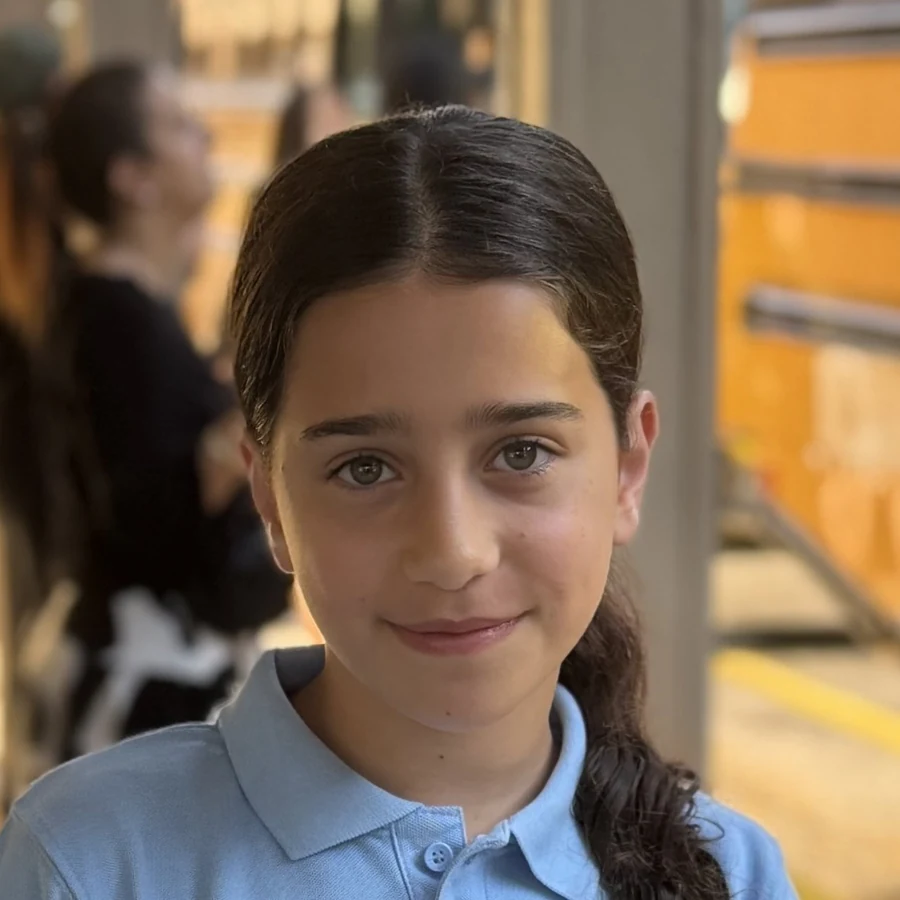
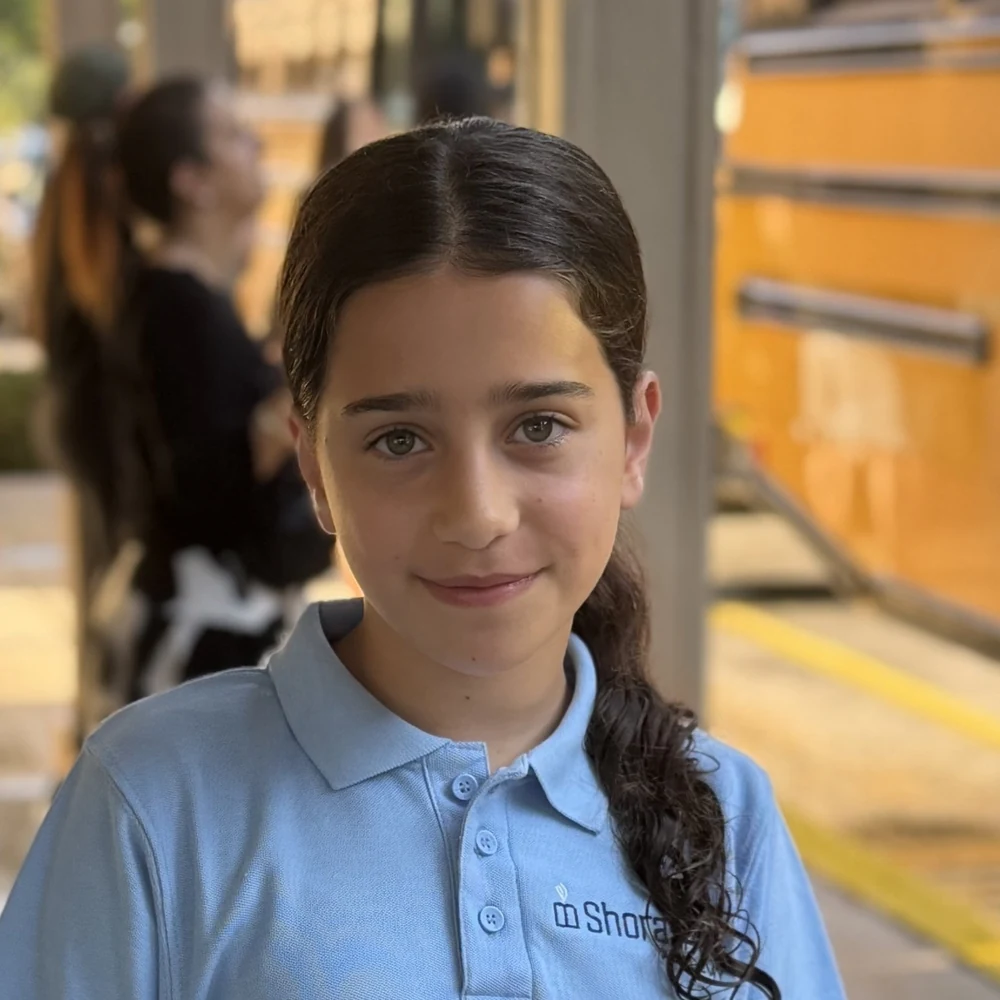
Add files via upload

diff --git a/app/our-story/page.tsx b/app/our-story/page.tsx
@@ -37,11 +37,11 @@ export default function OurStory() {
         <Sparkle className="twinkle absolute left-[10%] top-16 h-7 w-7 text-gold" />
         <Heart className="float absolute right-[10%] top-28 h-9 w-9 text-rose/60" />
         <Reveal className="mx-auto max-w-3xl px-4">
-          <div className="relative mx-auto h-56 w-56 sm:h-64 sm:w-64">
-            <div className="spin-slow absolute inset-[-10px] rounded-full border-[3px] border-dashed border-gold/80" aria-hidden="true" />
-            <Image src="/images/owner.webp" alt="The owner of Café Palace smiling" width={450} height={450} priority className="h-full w-full rounded-full object-cover shadow-pop ring-[6px] ring-white" />
-            <Crown className="absolute -top-9 left-1/2 h-12 w-16 -translate-x-1/2 -rotate-6 drop-shadow-md" />
-            <Heart className="float absolute -right-3 bottom-4 h-10 w-10 text-rose" />
+          <div className="relative mx-auto h-72 w-72 sm:h-96 sm:w-96">
+            <div className="absolute inset-[-12px] rotate-3 rounded-[3rem] border-[3px] border-dashed border-gold/80" aria-hidden="true" />
+            <Image src="/images/owner.webp" alt="The owner of Café Palace smiling" width={600} height={600} priority sizes="(min-width: 640px) 384px, 288px" className="h-full w-full rounded-[2.5rem] object-cover shadow-pop ring-[6px] ring-white" />
+            <Crown className="absolute -top-10 left-1/2 h-14 w-20 -translate-x-1/2 -rotate-6 drop-shadow-md" />
+            <Heart className="float absolute -left-4 bottom-6 h-12 w-12 text-rose" />
           </div>
           <p className="mt-6 font-display text-3xl font-bold italic text-cocoa">The heart behind the palace</p>
           <p className="mt-3 text-sm font-black uppercase tracking-[0.2em] text-amber">Café Palace · Food Truck History</p>
